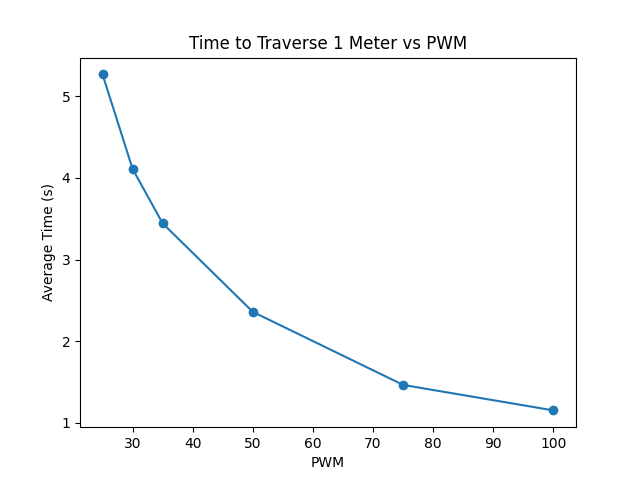
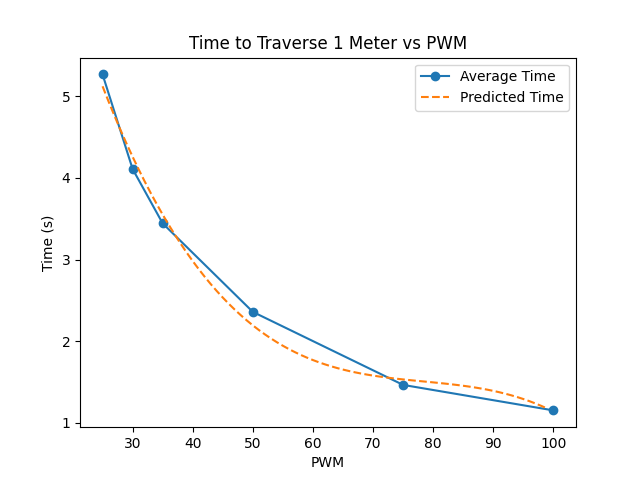
finished linear velocity calibration, next working on angular velocity

diff --git a/testing/scripts/speed_test.py b/testing/scripts/speed_test.py
@@ -12,23 +12,33 @@ test_data = {
     100: [1.18, 1.13, 1.13, 1.19, 1.14]
 }
 
-x = []
-y = []
+def convert_time_to_speed(input_time):
+    return 1 / input_time
 
-for pwm, times in test_data.items():
-    x.append(pwm)
-    y.append(np.mean(times))
+if __name__ == '__main__':
+    x = []
+    y = []
 
-x, y = np.array(x), np.array(y)
+    
 
-print(Polynomial.fit(x, y, 2))
-# y_pred = m * x + c
 
-# plt.xlabel("PWM")
-# plt.ylabel("Time (s)")
-# plt.title("Time to Traverse 1 Meter vs PWM")
-# plt.plot(x,y, 'o-', label="Average Time")
-# plt.plot(x, y_pred, 'o-', label="Predicted Time")
+    for pwm, times in test_data.items():
+        x.append(pwm)
+        y.append(
+            convert_time_to_speed(np.mean(times))
+        )
 
-# plt.legend()
-# plt.show()
+    x, y = np.array(x), np.array(y)
+
+    forward_pred = Polynomial.fit(x, y, 3)
+    inverse_pred = Polynomial.fit(y, x, 3)
+
+    plt.xlabel("PWM (%)")
+    plt.ylabel("Speed (m/s)")
+    plt.plot(x,y, 'o-', label="Average")
+
+    x_pred = np.arange(25,100)
+    plt.plot(x_pred, forward_pred(x_pred), '--', label="Predicted")
+
+    plt.legend()
+    plt.show()
